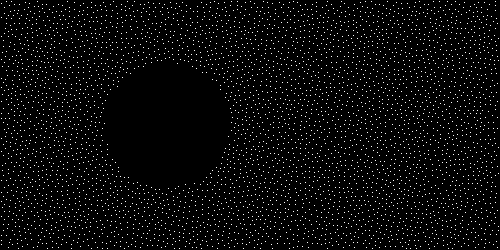
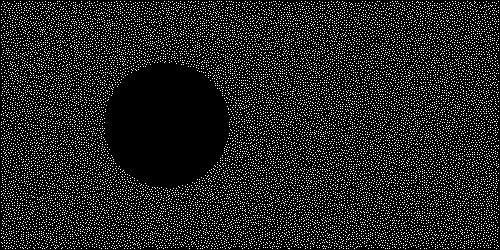
Improve the point cloud example.

Changed region(s): [[0.0, 0.0, 1.0, 1.0], [0.99, 0.98, 1.0, 1.0]]

diff --git a/README.md b/README.md
@@ -15,12 +15,12 @@ Build and run clumpy:
     alias clumpy=$PWD/.release/clumpy
     clumpy help
 
-Generate two octaves of simplex noise and combine them:
+Generate two octaves of simplex noise and combine them.
 
     clumpy generate_simplex 500x250 0.5 16.0 0 noise1.npy
     clumpy generate_simplex 500x250 1.0 8.0  0 noise2.npy
 
-    python3 <<EOL
+    python <<EOL
     import numpy as np; from PIL import Image
     noise1, noise2 = np.load("noise1.npy"), np.load("noise2.npy")
     result = np.clip(np.abs(noise1 + noise2), 0, 1)
@@ -29,24 +29,24 @@ Generate two octaves of simplex noise and combine them:
 
 <img src="https://github.com/prideout/clumpy/raw/master/extras/example1.png">
 
-Create a distance field with a random shape:
+Create a distance field with a random shape.
 
     clumpy generate_dshapes 500x250 1 0 shapes.npy
     clumpy visualize_sdf shapes.npy shapeviz.npy
 
-    python3 <<EOL
+    python <<EOL
     import numpy as np; from PIL import Image
     Image.fromarray(np.load('shapeviz.npy'), 'RGB').show()
     EOL
 
 <img src="https://github.com/prideout/clumpy/raw/master/extras/example2.png">
 
-Create a 2x2 atlas of distance fields, each with 5 random shapes:
+Create a 2x2 atlas of distance fields, each with 5 random shapes.
 
     for i in {1..4}; do clumpy generate_dshapes 250x125 5 $i shapes$i.npy; done
     for i in {1..4}; do clumpy visualize_sdf shapes$i.npy shapes$i.npy; done
     
-    python3 <<EOL
+    python <<EOL
     import numpy as np; from PIL import Image
     a, b, c, d = (np.load('shapes{}.npy'.format(i)) for i in [1,2,3,4])
     img = np.vstack(((np.hstack((a,b)), np.hstack((c,d)))))
@@ -55,13 +55,14 @@ Create a 2x2 atlas of distance fields, each with 5 random shapes:
 
 <img src="https://github.com/prideout/clumpy/raw/master/extras/example3.png">
 
-Create a nice point distribution, cull points that overlap certain areas, then plot them:
+Create a nice distribution of ~20k points, cull points that overlap certain areas, and plot them. Do
+all this in less than a second, using only one thread.
 
-    clumpy bridson_points 500x250 4 987 coords.npy
+    clumpy bridson_points 500x250 2 0 coords.npy
     clumpy cull_points coords.npy shapes.npy culled.npy
     clumpy splat_points culled.npy 500x250 gaussian 5 1.0 splats.npy
 
-    python3 <<EOL
+    python <<EOL
     import numpy as np; from PIL import Image
     Image.fromarray(np.load("splats.npy"), "L").show()
     EOL
